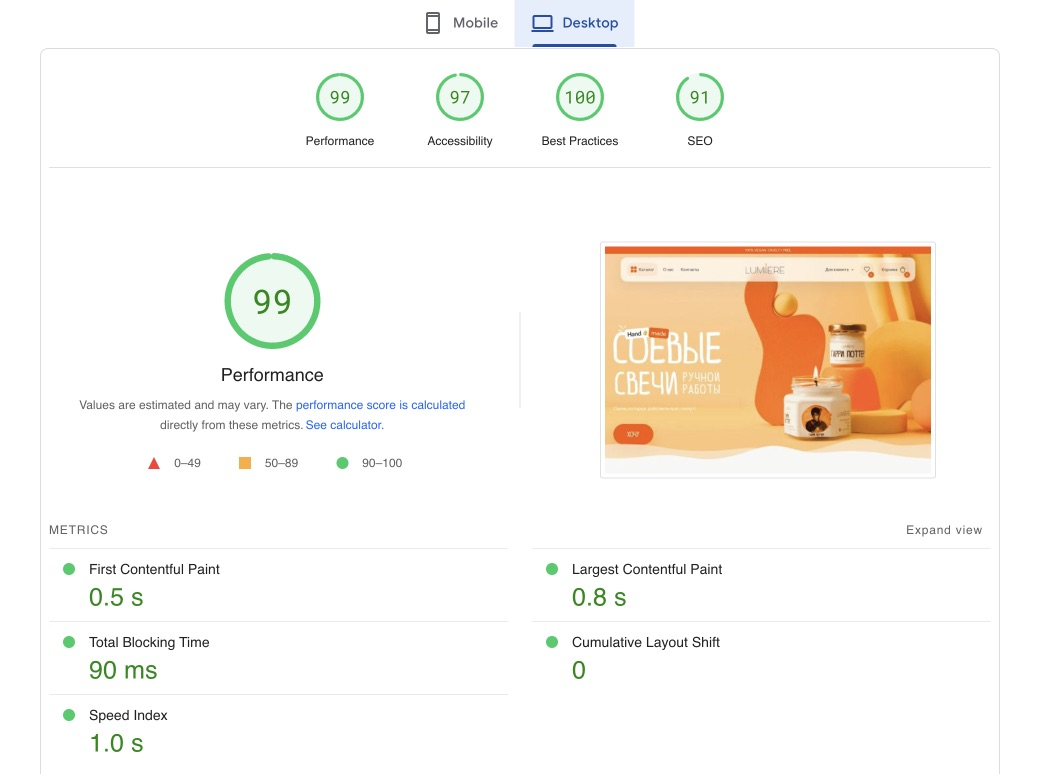
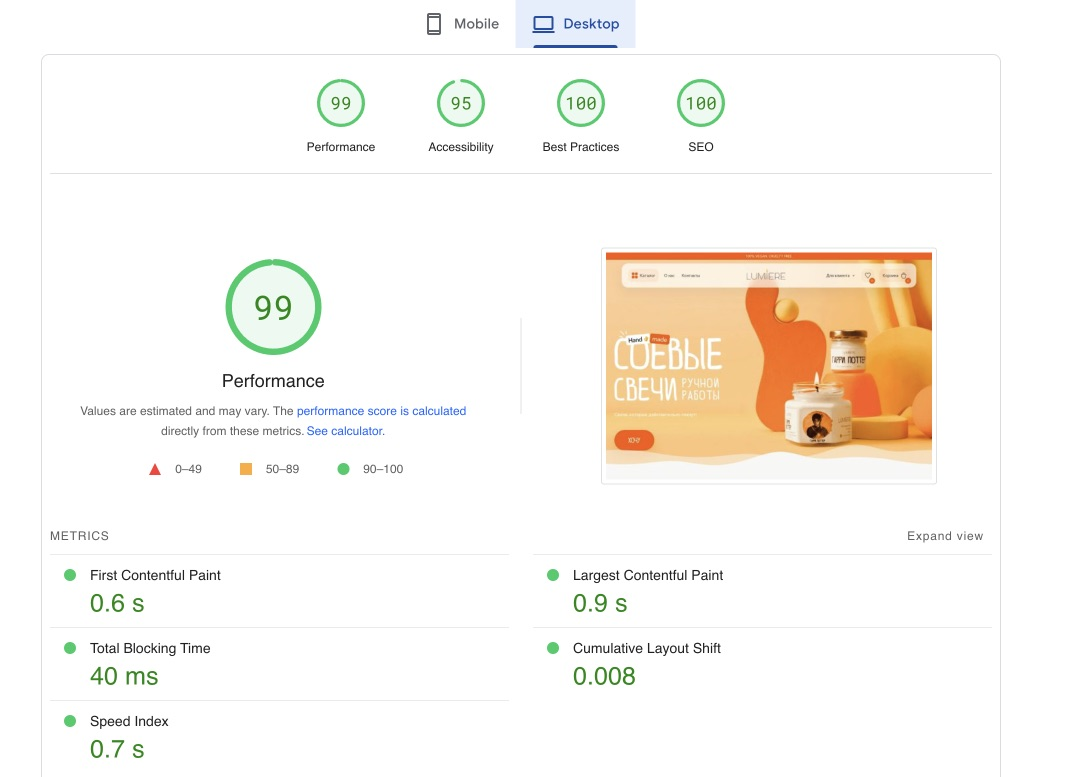
Update md img and readme

diff --git a/README.md b/README.md
@@ -1,33 +1,46 @@
-<p align="center">
-  <a href="https://vuefire.vuejs.org" target="_blank" rel="noopener noreferrer">
-    <img width="100" src="https://vuefire.vuejs.org/logo.svg" alt="VueFire logo">
-  </a>
-</p>
-<br/>
-<p align="center">
- <a href="https://github.com/vuejs/vue">
-    <img src="https://img.shields.io/badge/nuxt-3.7.3-brightgreen.svg" alt="vue">
-  </a>
-  <a href="https://github.com/vuejs/pinia">
-    <img src="https://img.shields.io/badge/pinia-2.1.6-brightgreen.svg" alt="pinia">
-  </a>
-   <a href="https://github.com/vuejs/vue">
-    <img src="https://img.shields.io/badge/strapi-4.13.6-brightgreen.svg" alt="vue">
-  </a>
-</p>
 
-**Google page speed**
-<table>
-   <tr>
-      <td>
-         <img src="./src/assets/img/md/mob.jpg" alt="Картинка мобильного" title="Картинка">
-      </td>
-      <td>
-         <img src="./src/assets/img/md/des.jpg" alt="Картинка компьютера" title="Картинка">
-      </td>
-   </tr>
-</table>
+   <p align="center">
+      <a href="https://vuefire.vuejs.org" target="_blank" rel="noopener noreferrer">
+         <img width="100" src="https://vuefire.vuejs.org/logo.svg" alt="VueFire logo" />
+      </a>
+   </p>
+   <br />
+   <p align="center">
+      <a href="https://github.com/vuejs/vue">
+         <img src="https://img.shields.io/badge/nuxt-3.7.3-brightgreen.svg" alt="vue" />
+      </a>
+      <a href="https://github.com/vuejs/pinia">
+         <img src="https://img.shields.io/badge/pinia-2.1.6-brightgreen.svg" alt="pinia" />
+      </a>
+      <a href="https://github.com/vuejs/vue">
+         <img src="https://img.shields.io/badge/strapi-4.13.6-brightgreen.svg" alt="vue" />
+      </a>
+   </p>
 
-**GTMetrix**
- <img src="./src/assets/img/md/gt.jpg" alt="Картинка">
+   **Google page speed**
 
+   <table>
+      <tr>
+         <td>
+            <img src="./src/assets/img/md/mob.jpg" alt="Картинка мобильного" title="Картинка" />
+         </td>
+         <td>
+            <img src="./src/assets/img/md/des.jpg" alt="Картинка компьютера" title="Картинка" />
+         </td>
+      </tr>
+   </table>
+
+   <table>
+      <tr>
+         <td><b>GTMetrix</b></td>
+         <td><b>W3W</b></td>
+      </tr>
+      <tr>
+         <td>
+            <img src="./src/assets/img/md/gt.jpg" alt="Картинка" />
+         </td>
+         <td>
+            <img src="./src/assets/img/md/w3w.jpg" alt="Картинка" />
+         </td>
+      </tr>
+   </table>
